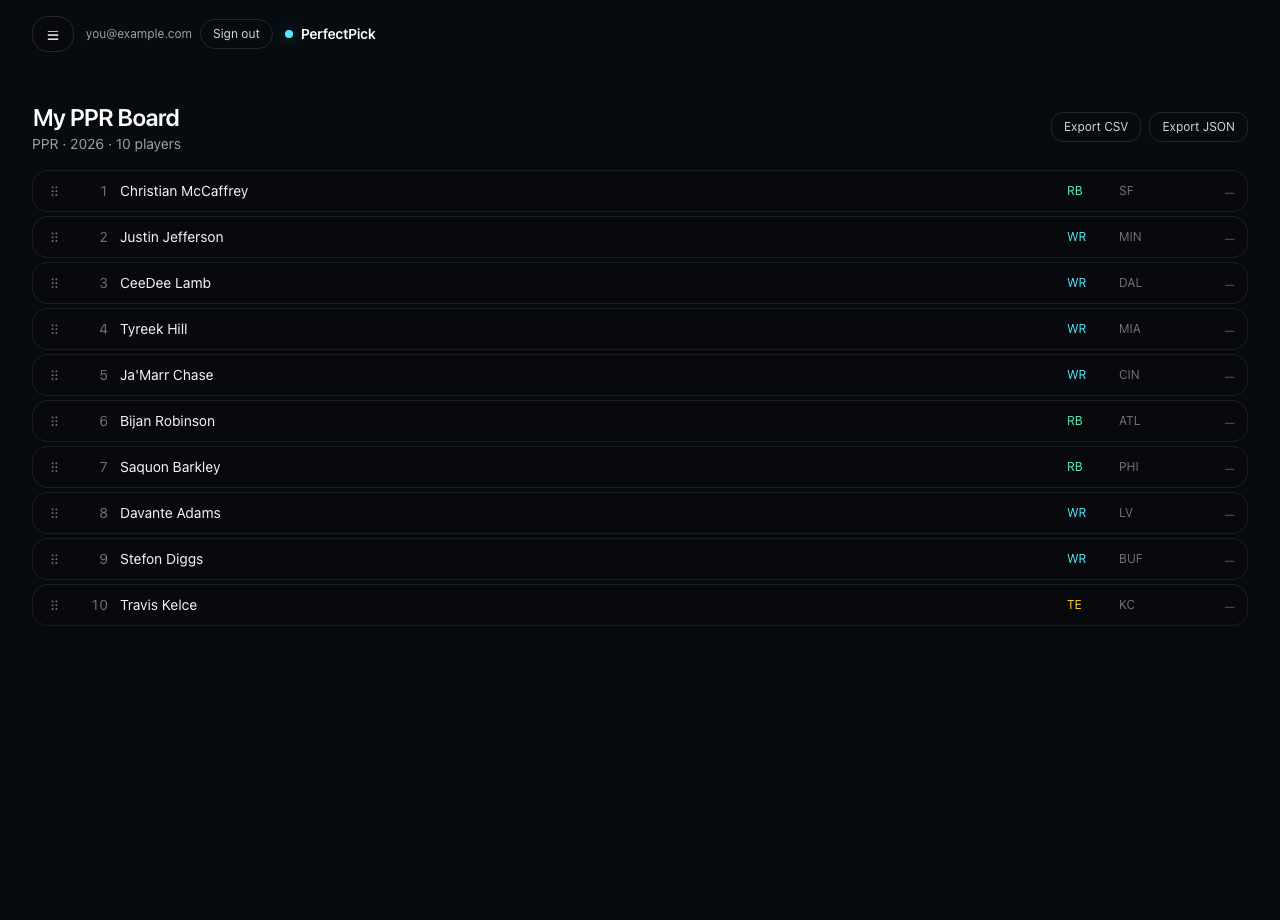
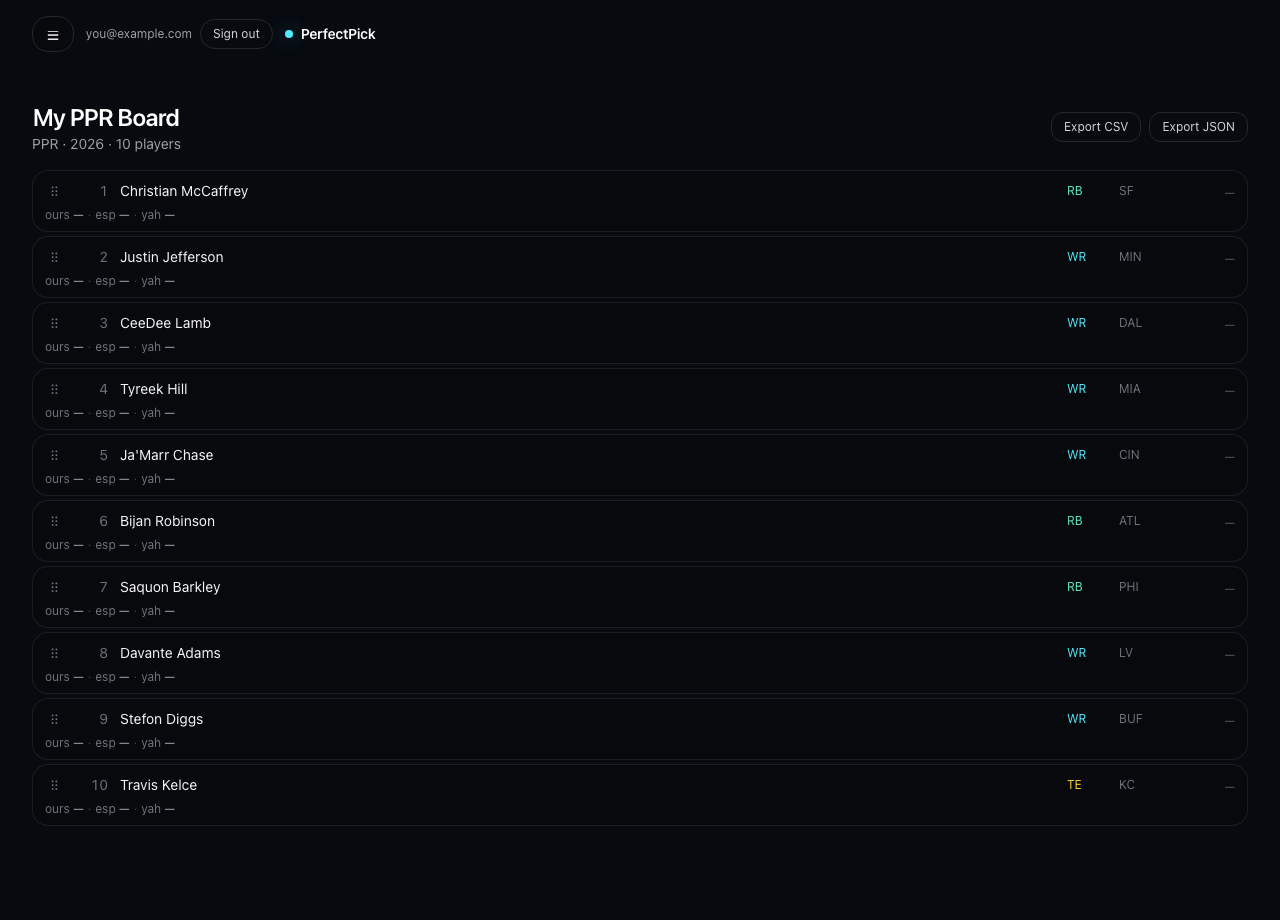
feat: sort the pool by any source's ADP
Claude-Session: https://claude.ai/code/session_015MofU7sfDKogMnHaUjDzCC

diff --git a/frontend/src/components/draft/BigBoardPanel.jsx b/frontend/src/components/draft/BigBoardPanel.jsx
@@ -33,6 +33,7 @@ export function BigBoardPanel({
   const [pos, setPos] = useState("");
   const [page, setPage] = useState(0);
   const [openPlayerId, setOpenPlayerId] = useState(null);
+  const [adpSort, setAdpSort] = useState("ours");
 
   const filtered = useMemo(() => {
     if (!draft) return [];
@@ -45,6 +46,8 @@ export function BigBoardPanel({
 
   // Filtering puts you back on the first page: page 4 of the old result set
   // means nothing against the new one, and staying there shows an empty list.
+  // Changing the sort has the same problem -- the player on page 4 moves
+  // somewhere else entirely -- so it resets the page the same way.
   //
   // Adjusted during render rather than in an effect. React re-runs the
   // component before committing, so the stale page never reaches the screen,
@@ -52,9 +55,9 @@ export function BigBoardPanel({
   // flags the effect form -- and only started once this panel was small
   // enough for the rule to analyze; in the 743-line page it was silently
   // skipped.
-  const [lastFilter, setLastFilter] = useState({ query, pos });
-  if (lastFilter.query !== query || lastFilter.pos !== pos) {
-    setLastFilter({ query, pos });
+  const [lastFilter, setLastFilter] = useState({ query, pos, adpSort });
+  if (lastFilter.query !== query || lastFilter.pos !== pos || lastFilter.adpSort !== adpSort) {
+    setLastFilter({ query, pos, adpSort });
     setPage(0);
   }
 
@@ -64,8 +67,24 @@ export function BigBoardPanel({
     ? players.find((x) => x.id === openPlayerId) ?? null
     : null;
 
-  const totalPages = Math.max(1, Math.ceil(filtered.length / PAGE_SIZE));
-  const pagedPlayers = filtered.slice(page * PAGE_SIZE, (page + 1) * PAGE_SIZE);
+  // Between filtering and paging, deliberately. `pagedPlayers` is one page of
+  // 50, so sorting that would only shuffle the page you happen to be on and
+  // look broken the moment you turned it. `advice` below keeps reading
+  // `filtered`, because scarcity is about which players remain, not the order
+  // they are listed in.
+  const sorted = useMemo(() => {
+    if (adpSort === "ours") return filtered;
+    return [...filtered].sort(
+      (a, b) =>
+        // A player the chosen source has no number for sorts last, the same
+        // way the existing rank sort pushes nulls to the bottom.
+        (a.adpBySource?.[adpSort] ?? Number.POSITIVE_INFINITY) -
+        (b.adpBySource?.[adpSort] ?? Number.POSITIVE_INFINITY)
+    );
+  }, [filtered, adpSort]);
+
+  const totalPages = Math.max(1, Math.ceil(sorted.length / PAGE_SIZE));
+  const pagedPlayers = sorted.slice(page * PAGE_SIZE, (page + 1) * PAGE_SIZE);
 
   // Advice is computed once per pick, never per keystroke. `filtered` re-runs
   // on every character typed into the search box; the engine walks the whole
@@ -191,6 +210,24 @@ export function BigBoardPanel({
             <option value="TE">TE</option>
             <option value="K">K</option>
             <option value="DEF">DEF</option>
+          </select>
+          {/*
+            Beside the other filters, in the same row, rather than a row of
+            its own -- this panel's height is fixed by the three-column page
+            layout, and one more full-width row above a flex-1 list pushed
+            the list's height to zero instead of shrinking the fixed rows
+            around it.
+          */}
+          <select
+            data-testid="adp-sort"
+            value={adpSort}
+            onChange={(e) => setAdpSort(e.target.value)}
+            title="Sort by"
+            className="rounded-2xl border border-zinc-800 bg-zinc-950/70 px-3 py-2 text-sm text-zinc-200 outline-none focus:border-sky-300/60 focus:shadow-[0_0_0_4px_rgba(59,130,246,0.10)]"
+          >
+            <option value="ours">our rank</option>
+            <option value="espn">ESPN ADP</option>
+            <option value="yahoo">Yahoo ADP</option>
           </select>
         </div>
 

diff --git a/frontend/tests/draft.spec.js b/frontend/tests/draft.spec.js
@@ -285,6 +285,51 @@ test.describe("Draft page", () => {
     await expect(rows.nth(1)).toHaveText(/ours\s*40\.1.*esp\s*28\.4.*yah\s*—/s);
   });
 
+  test("sorting by a source reorders the pool without changing the numbers", async ({ page }) => {
+    const state = makeDraftState({ currentIndex: 0 });
+    mockDraftApis(page, state);
+    await page.route("**/players*", (r) =>
+      r.fulfill({ json: { players: [
+        { id: "p1", name: "Ja'Marr Chase", position: "WR", team: "CIN", rank: 1, adp: 4.2, tier: 1, adpBySource: { espn: 30.0 } },
+        { id: "p2", name: "Jaylen Waddle", position: "WR", team: "MIA", rank: 40, adp: 40.1, tier: 4, adpBySource: { espn: 2.0 } },
+      ] } })
+    );
+
+    await signIn(page);
+    await page.goto(`/draft/${DRAFT_ID}`);
+    await page.getByRole("button", { name: "Pause" }).click();
+
+    // Default is our rank, so Chase leads.
+    await expect(page.getByTestId("adp-trio").first()).toHaveText(/ours\s*4\.2/);
+
+    await page.getByTestId("adp-sort").selectOption("espn");
+
+    // ESPN has Waddle far earlier, so he leads now -- and every number shown is
+    // the same number as before. Only the order moved.
+    await expect(page.getByTestId("adp-trio").first()).toHaveText(/ours\s*40\.1.*esp\s*2\.0/s);
+    await expect(page.getByText("Jaylen Waddle").first()).toBeVisible();
+  });
+
+  test("a player with no number for the chosen source sorts last", async ({ page }) => {
+    const state = makeDraftState({ currentIndex: 0 });
+    mockDraftApis(page, state);
+    await page.route("**/players*", (r) =>
+      r.fulfill({ json: { players: [
+        { id: "p1", name: "Has None", position: "WR", team: "CIN", rank: 1, adp: 4.2, tier: 1 },
+        { id: "p2", name: "Has One", position: "WR", team: "MIA", rank: 40, adp: 40.1, tier: 4, adpBySource: { espn: 2.0 } },
+      ] } })
+    );
+
+    await signIn(page);
+    await page.goto(`/draft/${DRAFT_ID}`);
+    await page.getByRole("button", { name: "Pause" }).click();
+    await page.getByTestId("adp-sort").selectOption("espn");
+
+    // The one with no ESPN number is last, not first -- an absent number must
+    // never sort as if it were zero.
+    await expect(page.getByTestId("adp-trio").last()).toHaveText(/ours\s*4\.2.*esp\s*—/s);
+  });
+
 });
 
 // --- Pinning the Big Board row before it is restructured -------------------

diff --git a/README.md b/README.md
@@ -55,6 +55,7 @@ a particular pick, and a standalone page has no pick to advise on.
 
 - **Sign-in Required** — Google sign-in via Cognito; drafts and boards are private to the people in them, not to anyone who merely has the link
 - **Custom Big Boards** — Rank players your way, save the board, and draft off it instead of the consensus order
+- **Every source's ADP** — See our ADP, ESPN's and Yahoo's side by side while you rank and while you draft, so a player one service likes a round earlier than another is obvious. Our rank stays the default order; sort by any source when you want to
 - **Share a Big Board** — Download a board as CSV or JSON and hand it to a friend, who imports it as their own copy to edit. Files carry player names as well as ids, so they are readable on their own and survive a player id changing between seasons; anyone missing from the new season's pool is reported by name rather than dropped in silence
 - **Snake Draft Engine** — Round-by-round snake ordering with full persistence to DynamoDB
 - **Big Board + Search** — Filter by position, search by name, and paginate through the full player pool
